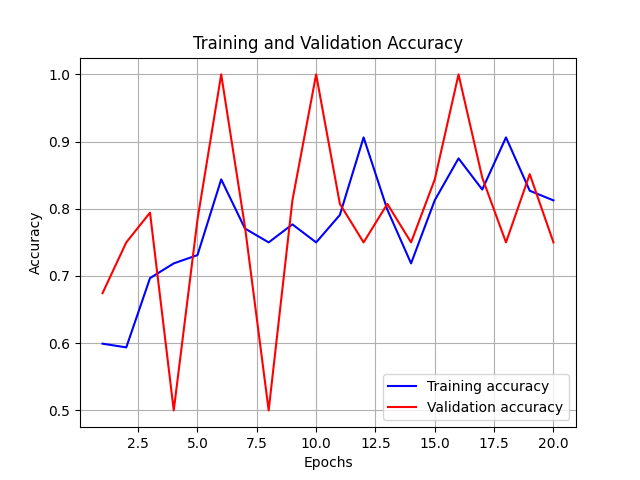
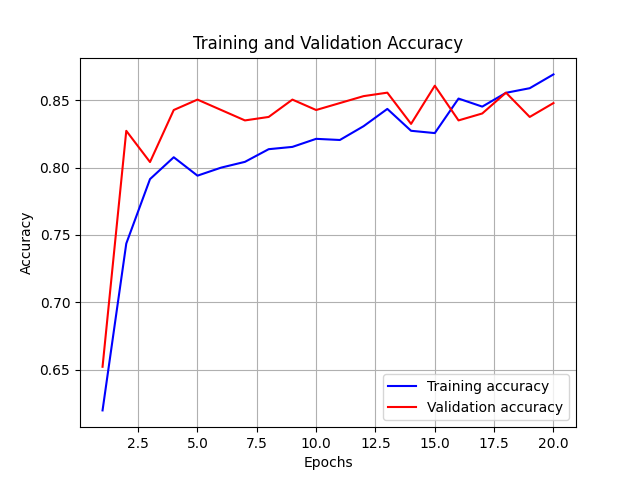
Updated model training to make model more accurate

diff --git a/model.py b/model.py
@@ -3,8 +3,10 @@ from tensorflow.keras.preprocessing.image import ImageDataGenerator
 from tensorflow.keras.models import Sequential
 from tensorflow.keras.layers import Conv2D, MaxPooling2D, Flatten, Dense, Dropout, Input
 from tensorflow.keras.optimizers import Adam
+from tensorflow.keras.callbacks import ReduceLROnPlateau
 import os
 import json
+import math
 
 # Define paths
 base_dir = 'dataset'
@@ -26,14 +28,16 @@ train_generator = train_datagen.flow_from_directory(
     train_dir,
     target_size=(150, 150),
     batch_size=32,
-    class_mode='binary'
+    class_mode='binary',
+    shuffle=True
 )
 
 validation_generator = validation_datagen.flow_from_directory(
     validation_dir,
     target_size=(150, 150),
     batch_size=32,
-    class_mode='binary'
+    class_mode='binary',
+    shuffle=False
 )
 
 # Define the CNN model
@@ -53,18 +57,49 @@ model = Sequential([
 
 # Compile the model
 model.compile(
-    optimizer=Adam(learning_rate=0.001),
+    optimizer=Adam(learning_rate=0.0001),
     loss='binary_crossentropy',
     metrics=['accuracy']
 )
 
+# Callback to reduce learning rate when a metric has stopped improving
+reduce_lr = ReduceLROnPlateau(monitor='val_loss', factor=0.2, patience=5, min_lr=0.00001)
+
+# Calculate steps_per_epoch and validation_steps
+steps_per_epoch = math.ceil(train_generator.samples / train_generator.batch_size)
+validation_steps = math.ceil(validation_generator.samples / validation_generator.batch_size)
+
+# Custom training loop to handle NoneType in val_logs
+class CustomCallback(tf.keras.callbacks.Callback):
+    def on_epoch_end(self, epoch, logs=None):
+        if logs is not None:
+            print(f'Epoch {epoch+1} - Training Loss: {logs.get("loss")}, Training Accuracy: {logs.get("accuracy")}')
+            if "val_loss" in logs:
+                print(f'Validation Loss: {logs.get("val_loss")}, Validation Accuracy: {logs.get("val_accuracy")}')
+            else:
+                print("Validation metrics not available")
+
+# Ensure the datasets repeat indefinitely
+train_dataset = tf.data.Dataset.from_generator(
+    lambda: train_generator,
+    output_types=(tf.float32, tf.float32),
+    output_shapes=([None, 150, 150, 3], [None])
+).repeat()
+
+validation_dataset = tf.data.Dataset.from_generator(
+    lambda: validation_generator,
+    output_types=(tf.float32, tf.float32),
+    output_shapes=([None, 150, 150, 3], [None])
+).repeat()
+
 # Train the model
 history = model.fit(
-    train_generator,
-    steps_per_epoch=train_generator.samples // train_generator.batch_size,
+    train_dataset,
+    steps_per_epoch=steps_per_epoch,
     epochs=20,
-    validation_data=validation_generator,
-    validation_steps=validation_generator.samples // validation_generator.batch_size
+    validation_data=validation_dataset,
+    validation_steps=validation_steps,
+    callbacks=[reduce_lr, CustomCallback()]
 )
 
 # Save the model
@@ -75,7 +110,7 @@ with open('training_history.json', 'w') as f:
     json.dump(history.history, f)
 
 # Evaluate the model
-loss, accuracy = model.evaluate(validation_generator)
+loss, accuracy = model.evaluate(validation_dataset, steps=validation_steps)
 print(f'Validation accuracy: {accuracy * 100:.2f}%')
 
 if __name__ == "__main__":
